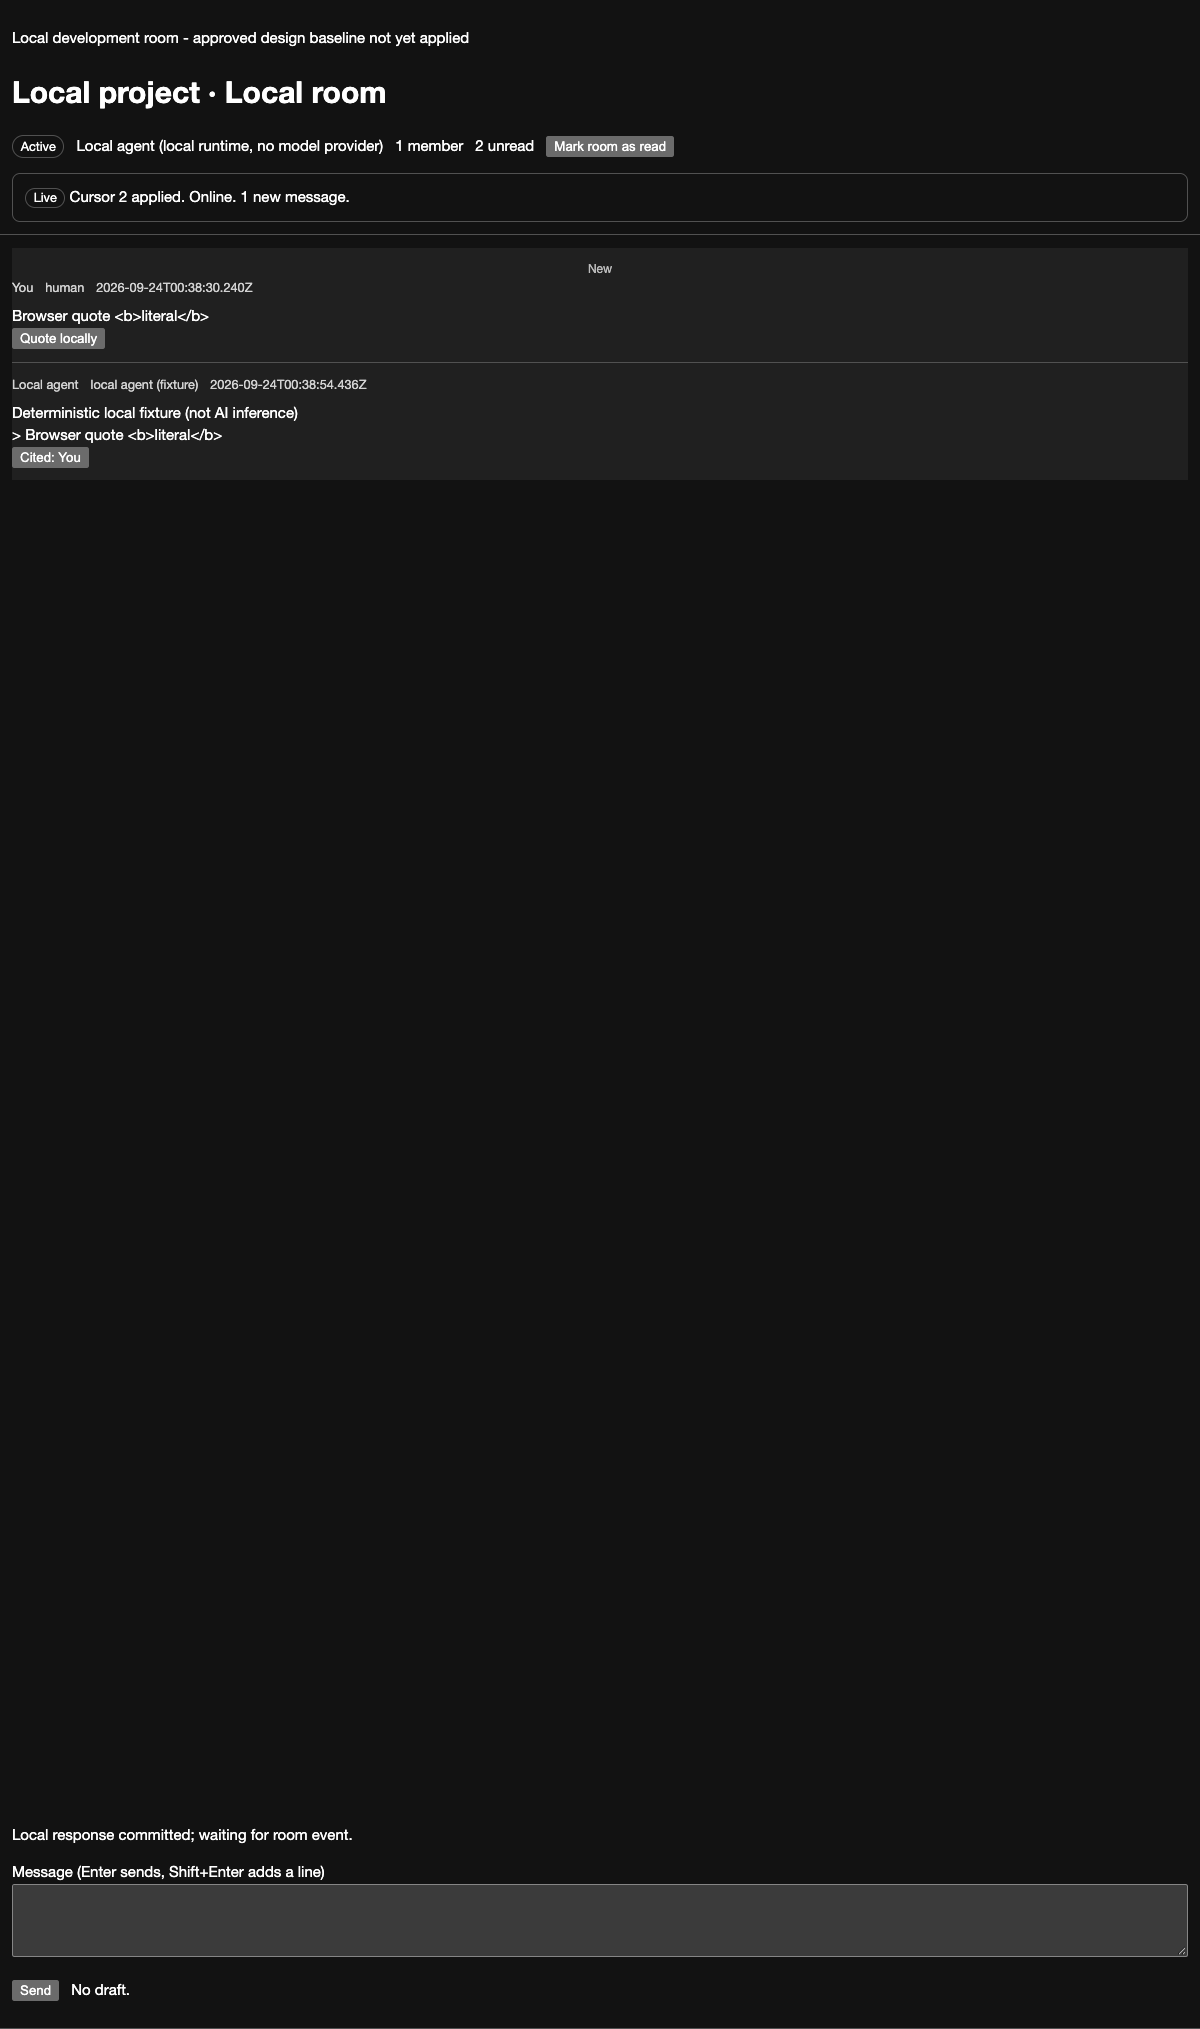
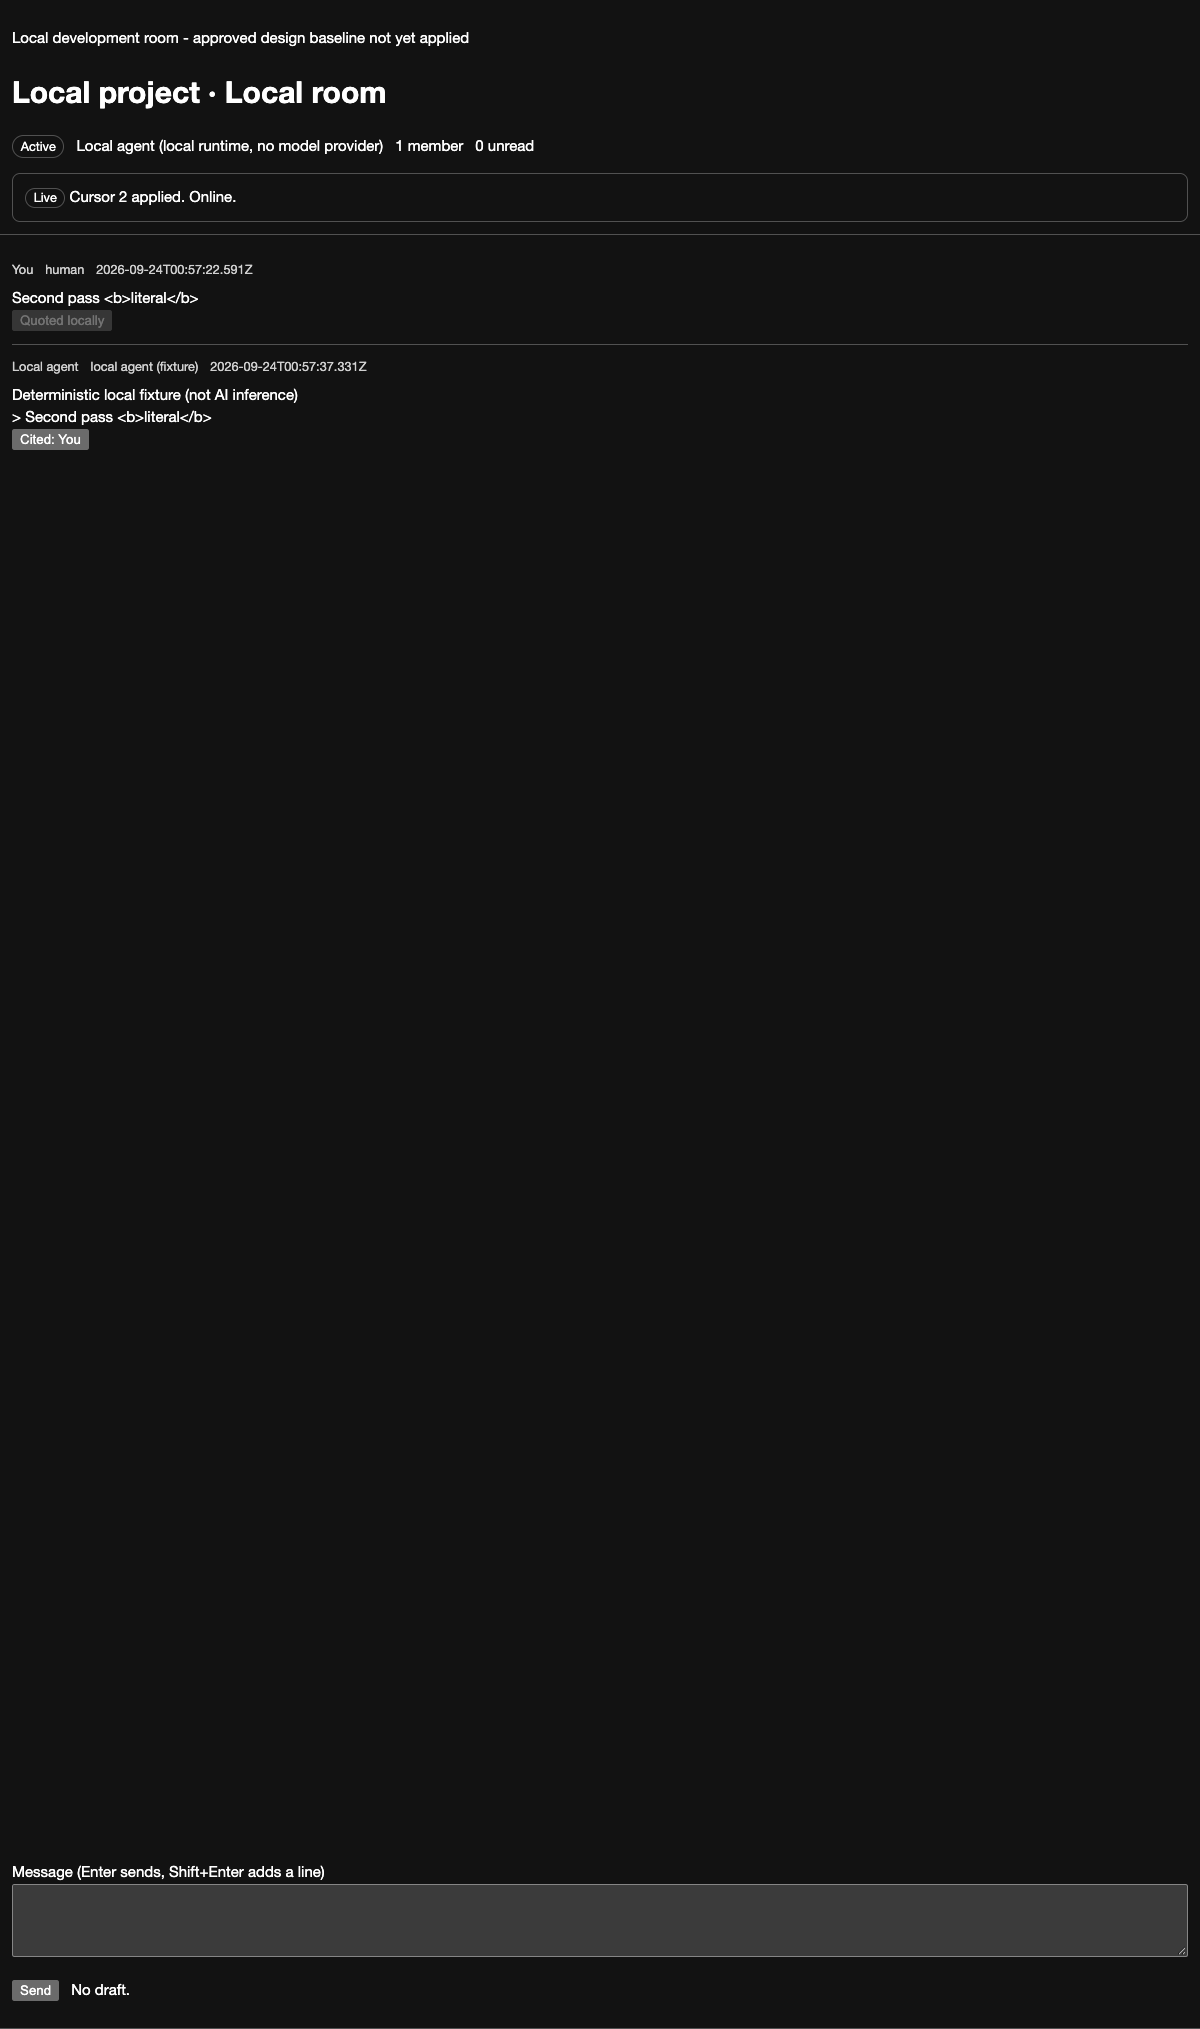
docs(local-room): retain post-reload two-tab response observation

Changed region(s): [[0.0, 0.1242, 0.2775, 0.2484], [0.4625, 0.0621, 0.555, 0.0931], [0.2467, 0.0931, 0.2775, 0.1242]]

diff --git a/evidence/local-room/agent-response/README.md b/evidence/local-room/agent-response/README.md
@@ -17,6 +17,6 @@ The implementation subject is `7228d5cbe799c853b6cb012c1b3827fe5f35d211` over ba
 9. Reload either tab; it reconstructs that quoted row and its citation from snapshot. Ordinary stop/start retains it.
 10. Retry an explicit `--command-id UUID` from the CLI or HTTP: the same selection returns the same receipt, changed selection conflicts, and no second event appears.
 
-Steps 1-7 were driven with `chrome-devtools-axi` at `http://127.0.0.1:53319/` on two tabs; a screenshot of browser A is `two-tab.png`. The observed tab B text includes the local fixture label and `Cited: You`; the DOM has zero `b` elements in the timeline and browser console had no messages. Steps 8-10, restart and reload were asserted with real CLI/HTTP plus two independent replay clients in the PostgreSQL integration test, not a recorded live Chrome reload drive. The browser instance was stopped and explicitly reset after observation. These receipts prove a first local quoted-response path, not full L5 acceptance, a model provider, an independent exact-head review or the rest of L4.
+Steps 1-7 and a live browser reload from step 9 were driven with `chrome-devtools-axi` at `http://127.0.0.1:59704/` on two tabs; a post-reload screenshot of browser B is `two-tab.png`. Both tabs showed two rows and the source button became **Quoted locally**; after browser B reloaded it retained two rows, the disabled quoted button and one citation. An earlier browser drive at `http://127.0.0.1:53319/` confirmed literal `<b>` was rendered as text, zero timeline `b` elements and no console messages. Steps 8, 10 and ordinary service restart were asserted with real CLI/HTTP plus two independent replay clients in the PostgreSQL integration test. Both browser instances were stopped and explicitly reset after observation. These receipts prove a first local quoted-response path, not full L5 acceptance, a model provider, an independent exact-head review or the rest of L4.
 
 Validation at the subject: `pnpm test` 234/234 (after installing the locked Python verification requirements); `pnpm web:test` 31/31; `pnpm lint`, `pnpm typecheck`, `pnpm boundaries`, `pnpm contracts:check`, `pnpm contracts:conform -- --json`, `pnpm docs:build` and `pnpm docs:test` passed. Global `pnpm docs:check` remains red on 183 pre-existing markdownlint issues in the separately supplied `docs/design-handoff/results/design-system/` packet; both changed docs pages pass markdownlint individually, and `pnpm docs:validate` passed. The host default `/Applications/Automic Vault/node.app` is Node 24.16.0 and rejects the Rolldown native Team ID; checks were run with unwrapped `/Users/taylerramsay/.local/node/bin/node` (still 24.16.0, below doctor pin 24.21.0). `ci-doctor` therefore remains blocked on the exact pin, not qualified.
